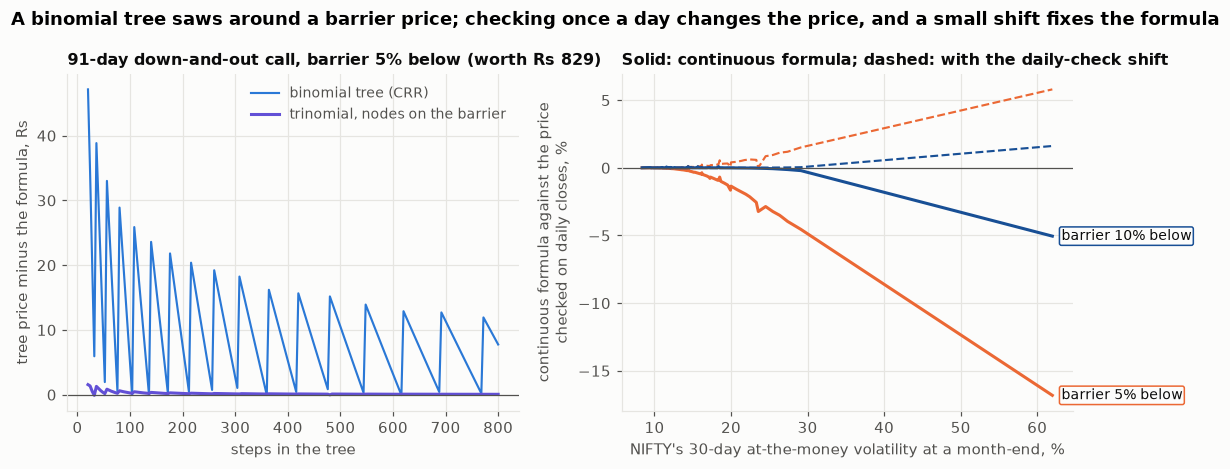
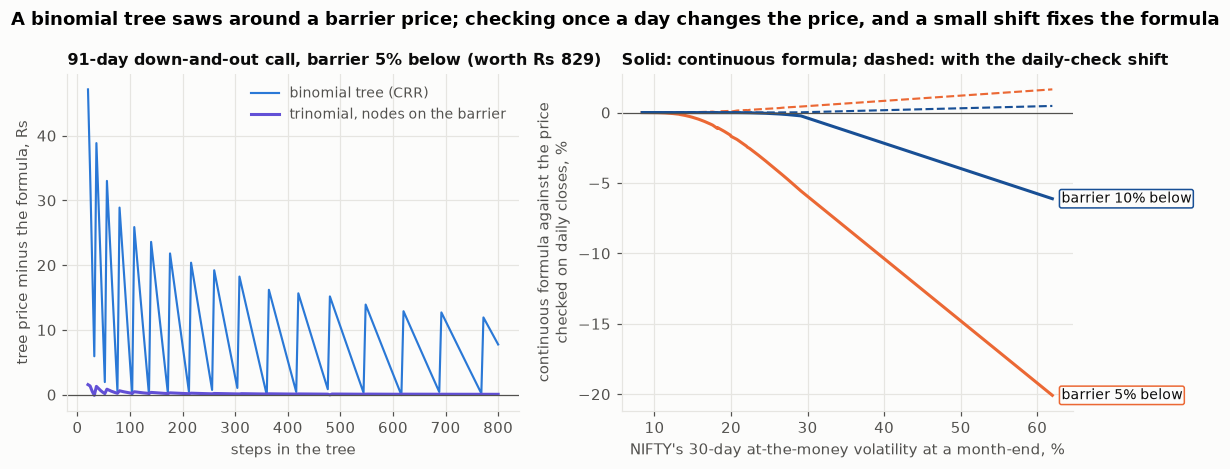
fix: apply the final review: correct the same-shape delta to implied-vol-surface's rule and choose its multiplier on 2015-2020 hedges, finer daily-barrier reference, honest convergence and exercise-boundary wording, measured knock-out odds, and guards

diff --git a/src/btree/reports.py b/src/btree/reports.py
@@ -287,6 +287,11 @@ def report_american(out_dir: Path) -> dict:
         f"{k}: median Rs {gg['prem'].median():.2f} ({(gg['prem'] / gg['eu']).median():.2%})"
         for k, gg in p.groupby(db, observed=True))
 
+    for frac in (0.16, 0.40):  # how deep a one-year call must be before early exercise pays
+        a = ([25000.0], [25000.0 * frac], [1.0], R, NIFTY_YIELD, [0.15])
+        prem = batch.american(*a, 201, "call", "lr")[0] - batch.lr_european(*a, 201, "call")[0]
+        res[f"one-year call struck at {frac:.0%} of NIFTY, 15% vol: early-exercise premium"] = (
+            f"Rs {max(prem, 0):.2f}")
     rates = np.linspace(0, 0.12, 25)
     curves = {}
     for days in (30, 91, 365):
@@ -313,9 +318,10 @@ def report_american(out_dir: Path) -> dict:
               .to_numpy())
         ax.plot(xs, ys, color=col, lw=2)
         plots.label_line_end(ax, xs[0], ys[0], f"volatility {vol:.0%}", col)
-        res[f"exercise boundary, 1-year put, {vol:.0%} vol"] = (
-            f"exercise once NIFTY is below {100 * e[ok][0] / 25000:.1f}% of the strike a year out, "
-            f"{100 * np.interp(30, left[ok][::-1], e[ok][::-1]) / 25000:.1f}% with 30 days left"
+        res[f"exercise boundary, 1-year put, {vol:.0%} vol (41-step smoothed)"] = (
+            f"exercise once NIFTY is below {ys[0]:.1f}% of the strike with about a year left "
+            f"(first exercisable step, {xs[0]:.0f} days left), "
+            f"{np.interp(30, xs[::-1], ys[::-1]):.1f}% with 30 days left"
         )
     ax.invert_xaxis()
     ax.set_xlim(380, -5)
@@ -391,7 +397,7 @@ def report_dividends(out_dir: Path) -> dict:
         gb = g.groupby(pd.cut(g["dy"], bins, labels=labels), observed=True)
         tab[m] = gb.apply(lambda x: pd.Series({
             "n": len(x), "prem": 100 * (x["prem"] / x["eu"]).median(),
-            "err": 100 * (x["err"] / x["am"]).median()}), include_groups=False)
+            "err": 100 * (x["err"] / x["am"]).median()}), include_groups=False).dropna()
         res[f"  {name}, by dividend size: premium / shortcut error (median % )"] = "; ".join(
             f"{k} ({int(r_['n'])}): {r_['prem']:.1f}% / {r_['err']:.1f}%"
             for k, r_ in tab[m].iterrows())
@@ -402,7 +408,7 @@ def report_dividends(out_dir: Path) -> dict:
                            (axes[1], "err", "how much the yield shortcut undervalues it")):
         for j, (m, col, lab) in enumerate(((1.0, plots.COLORS["CRR"], "at the money"),
                                            (0.9, plots.SERIES[1], "10% in the money"))):
-            vals = tab[m][key].reindex(labels).to_numpy()
+            vals = tab[m][key].reindex(labels).fillna(0).to_numpy()  # empty size band: no bar
             ax.bar(xs + (j - 0.5) * 0.38, vals, 0.38, color=col, label=lab)
             for x, y in zip(xs + (j - 0.5) * 0.38, vals, strict=True):
                 ax.text(x, y + 1, f"{y:.0f}%", ha="center", va="bottom", fontsize=8,
@@ -443,10 +449,15 @@ def report_barriers(out_dir: Path) -> dict:
         i = int(np.argmin(np.abs(ns - n)))
         res[f"  {ns[i]} steps"] = f"CRR error Rs {crr[i]:+.2f}, aligned trinomial Rs {tri[i]:+.3f}"
     big = ns >= 400
+    outside = np.flatnonzero(np.abs(tri) > TICK)
+    # first step count after which the error never leaves a tick again (None if it still does)
+    first = outside[-1] + 1 if len(outside) else 0
+    stay = first if first < len(ns) else None
     res["  from 400 to 800 steps"] = (
         f"CRR error ranged Rs {crr[big].min():+.2f} to {crr[big].max():+.2f}; aligned trinomial "
-        f"Rs {tri[big].min():+.3f} to {tri[big].max():+.3f}; trinomial within a tick from "
-        f"{ns[np.argmax(np.abs(tri) <= TICK)]} steps"
+        f"Rs {tri[big].min():+.3f} to {tri[big].max():+.3f}; " + (
+            f"trinomial stays within a tick from {ns[stay]} steps" if stay is not None
+            else "trinomial does not stay within a tick by 800 steps")
     )
 
     svi = pd.read_parquet(iv_dir() / "data" / "derived" / "svi_daily.parquet")
@@ -455,7 +466,7 @@ def report_barriers(out_dir: Path) -> dict:
     ends = pd.Series(dates, index=dates).groupby([dates.year, dates.month]).max()
     m = svi[svi["date"].isin(ends)].assign(gap=lambda x: (x["days"] - 30).abs())
     vols = m.sort_values("gap").groupby("date").head(1)["atm_vol"].to_numpy()
-    T30, checks, per = 30 / 365, 21, 10  # 21 trading-day closes in 30 calendar days
+    T30, checks, per = 30 / 365, 21, 100  # 21 closes in 30 days; 100 steps between checks
     rows = []
     for H_pct in (0.95, 0.90):
         for vol in vols:
@@ -572,8 +583,15 @@ def report_smile_tree(out_dir: Path) -> dict:
 
         lv_ratio = math.sqrt(float(lv(np.array([-0.05]), T / 2)[0])
                              / float(lv(np.array([0.0]), T / 2)[0]))
+        def one(S):
+            return np.ones_like(S)
+
+        # chance of surviving to expiry (never touching the barrier on a daily close), r = 0
+        surv_lv = localvol.tree_price(F, T, 0.0, 21 * per, one, lv, fr, alive, per)
+        surv_flat = localvol.tree_price(F, T, 0.0, 21 * per, one, flat, fr, alive, per)
         rows.append({
             "date": d, "atm": atm, "F": F, "rep": float(np.mean(np.abs(rep))), "lv_ratio": lv_ratio,
+            "ko_lv": 1 - surv_lv, "ko_flat": 1 - surv_flat,
             "truth": truth, "dig_lv": dig_lv, "dig_flat": flat_d, "dig_strike": strike_d,
             "dao_lv": localvol.tree_price(F, T, R, 21 * per, call, lv, fr, alive, per),
             "dao_flat": localvol.tree_price(F, T, R, 21 * per, call, flat, fr, alive, per),
@@ -585,7 +603,7 @@ def report_smile_tree(out_dir: Path) -> dict:
         f"{len(d)} ({d.index.min():%b %Y}-{d.index.max():%b %Y}); 30-day at-the-money volatility "
         f"{d['atm'].min():.1%}-{d['atm'].max():.1%}"
     )
-    res["re-pricing the day's options (k = -8%, -4%, 0, +3%)"] = (
+    res["re-pricing four strikes on the day's 30-day smile (k = -8%, -4%, 0, +3%)"] = (
         f"mean error per month-end median Rs {d['rep'].median():.2f} "
         f"({1e4 * (d['rep'] / d['F']).median():.2f} basis points of the forward), 90th percentile "
         f"Rs {d['rep'].quantile(0.9):.2f}; above Rs 2 in {(d['rep'] > 2).sum()} month-ends"
@@ -608,6 +626,10 @@ def report_smile_tree(out_dir: Path) -> dict:
     res["  local volatility 5% below the forward / at the forward (15 days ahead)"] = (
         f"median {d['lv_ratio'].median():.2f}, above 1 in {(d['lv_ratio'] > 1).mean():.0%} of "
         f"month-ends"
+    )
+    res["  chance of touching the barrier on a daily close: smile tree / flat vol"] = (
+        f"median {d['ko_lv'].median():.1%} / {d['ko_flat'].median():.1%}; smile tree higher in "
+        f"{(d['ko_lv'] > d['ko_flat']).mean():.0%} of month-ends"
     )
 
     fig, axes = plt.subplots(1, 2, figsize=(11, 4.3))
@@ -662,14 +684,26 @@ def report_hedging(out_dir: Path) -> dict:
     import pandas as pd
 
     from btree.data import R, iv_dir
-    from btree.hedge import B_SAME_SHAPE, day_cases
+    from btree.hedge import B_SAME_SHAPE, day_cases, same_shape_delta
 
     res = {}
     svi = pd.read_parquet(iv_dir() / "data" / "derived" / "svi_daily.parquet")
     d = day_cases(svi, R)
     d["big"] = (d["dF"] / d["F0"]).abs() > 0.01
+    # the same-shape multiplier chosen here on 2015-2020 hedging errors, scored on 2021-2026
+    grid = (0.0, 0.5, 1.0, 1.5, 2.0, 2.5, 3.0)
+    train = d["date"].dt.year <= 2020
+    mse = {b: float(((d["dC"] - same_shape_delta(d, b) * d["dF"])[train] ** 2).mean())
+           for b in grid}
+    b_fit = min(mse, key=mse.get)
+    d["same_shape_fit"] = d["dC"] - same_shape_delta(d, b_fit) * d["dF"]
+    res["same-shape multiplier chosen on 2015-2020 hedging errors"] = (
+        f"b = {b_fit:g} (grid {', '.join(f'{b:g}' for b in grid)}; 2015-2020 variance left "
+        + ", ".join(f"{b:g}: {100 * mse[b] / float((d['dC'][train] ** 2).mean()):.1f}%"
+                    for b in grid) + ")")
     meth = {"black": "Black delta", "smile_tree": "smile-tree delta",
-            "same_shape": f"same-shape delta ({B_SAME_SHAPE:g}x)"}
+            "same_shape": f"same-shape, b = {B_SAME_SHAPE:g} (implied-vol-surface's choice)",
+            "same_shape_fit": f"same-shape, b = {b_fit:g} (chosen on 2015-2020 hedges)"}
     res["cases"] = (
         f"{len(d):,} option-days on {d['date'].nunique():,} day pairs "
         f"({d['date'].min():%b %Y}-{d['date'].max():%b %Y}); strikes "
@@ -685,45 +719,43 @@ def report_hedging(out_dir: Path) -> dict:
         res[f"share of the option's daily variance left after hedging, {label} ({len(x):,})"] = (
             "; ".join(f"{meth[c]} {left[label][c]:.1f}%" for c in meth))
     daily = d.groupby("date")[list(meth)].apply(lambda g: (g**2).mean())
-    for c in ("smile_tree", "same_shape"):
+    for c in ("smile_tree", "same_shape", "same_shape_fit"):
         diff = daily[c] - daily["black"]
         res[f"  {meth[c]} against Black (daily mean squared error)"] = (
             f"{100 * diff.mean() / daily['black'].mean():+.1f}% (Newey-West t {_nw_t(diff):.1f}); "
             f"better on {(diff < 0).mean():.0%} of days"
         )
-    diff = daily["same_shape"] - daily["smile_tree"]
-    res["  same-shape against smile tree"] = (
-        f"{100 * diff.mean() / daily['smile_tree'].mean():+.1f}% (t {_nw_t(diff):.1f})")
     test = daily[daily.index.year >= 2021]
-    res["  2021-2026 only (the same-shape multiplier was chosen on 2015-2020)"] = "; ".join(
+    res["  2021-2026 only (out of sample for both multipliers)"] = "; ".join(
         f"{meth[a]} against {meth[b]}: {100 * (test[a] - test[b]).mean() / test[b].mean():+.1f}% "
         f"(t {_nw_t(test[a] - test[b]):.1f})"
-        for a, b in (("same_shape", "black"), ("smile_tree", "black"),
-                     ("same_shape", "smile_tree")))
+        for a, b in (("same_shape", "black"), ("same_shape_fit", "black"),
+                     ("smile_tree", "black"), ("same_shape_fit", "smile_tree")))
     bys = d.groupby("k")
-    res["by strike: variance left (Black / smile tree / same shape)"] = "; ".join(
+    res["by strike: variance left (Black / smile tree / same shape b = 1 / fitted b)"] = "; ".join(
         f"{k:+.0%}: " + " / ".join(f"{100 * (g[c] ** 2).mean() / (g['unhedged'] ** 2).mean():.1f}%"
                                    for c in meth) for k, g in bys)
-    res["average delta by strike (Black / smile tree / same shape)"] = "; ".join(
-        f"{k:+.0%}: {g['d_bs'].mean():.3f} / {g['d_lv'].mean():.3f} / {g['d_ss'].mean():.3f}"
-        for k, g in bys)
+    res["average delta by strike (Black / smile tree / same shape b = 1 / fitted b)"] = "; ".join(
+        f"{k:+.0%}: {g['d_bs'].mean():.3f} / {g['d_lv'].mean():.3f} / {g['d_ss'].mean():.3f} / "
+        f"{same_shape_delta(g, b_fit).mean():.3f}" for k, g in bys)
 
-    fig, ax = plt.subplots(figsize=(10, 4.7))
+    fig, ax = plt.subplots(figsize=(10, 5.0))
     groups = ["all days", "2015-2020", "2021-2026", "moves over 1%"]
     xs = np.arange(len(groups))
     cols = {"black": plots.MUTED, "smile_tree": plots.COLORS["Leisen-Reimer"],
-            "same_shape": plots.SERIES[1]}
+            "same_shape": plots.SERIES[3], "same_shape_fit": plots.SERIES[1]}
+    wd = 0.2
     for j, c in enumerate(meth):
         vals = [left[g][c] for g in groups]
-        ax.bar(xs + (j - 1) * 0.26, vals, 0.26, color=cols[c], label=meth[c])
-        for x, y in zip(xs + (j - 1) * 0.26, vals, strict=True):
+        ax.bar(xs + (j - 1.5) * wd, vals, wd, color=cols[c], label=meth[c])
+        for x, y in zip(xs + (j - 1.5) * wd, vals, strict=True):
             ax.text(x, y + 0.2, f"{y:.1f}", ha="center", va="bottom", fontsize=8.5,
                     color=plots.TEXT)
     ax.set_xticks(xs, groups)
     ax.set_ylabel("option's daily price variance\nleft after hedging, %")
-    ax.legend(fontsize=9, loc="upper center", bbox_to_anchor=(0.5, -0.1), ncol=3)
-    ax.set_title("The smile tree's delta was no better than Black's; keeping the smile's shape "
-                 "left the least risk", fontsize=12)
+    ax.legend(fontsize=8.5, loc="upper center", bbox_to_anchor=(0.5, -0.1), ncol=2)
+    ax.set_title("No delta beat Black's reliably out of sample; the smile tree's did worst there",
+                 fontsize=12)
     fig.tight_layout()
     plots.save(fig, out_dir, "hedging")
     plt.close(fig)

diff --git a/src/btree/hedge.py b/src/btree/hedge.py
@@ -6,11 +6,13 @@ above). The "market" price is Black-76 at the slice's SVI volatility at the stri
 same strike and expiry are re-priced from tomorrow's slice. The hedge holds delta units of the
 expiry's forward (futures), so the hedging error is dC - delta dF. Deltas:
 - Black: Black-76 delta at the strike's own volatility (vols stay with the strike);
-- smile tree: re-price the local-volatility tree of `iv.localvol` with the forward moved +-0.5%,
+- smile tree: re-price the local-volatility tree of `btree.localvol` with the forward moved +-0.5%,
   local volatility held fixed as a function of the price level;
-- same shape: Black delta + vega x B x S / F, with S the slice's at-the-money slope d(vol)/dk and B
-  the multiplier chosen on 2015-2020 in implied-vol-surface finding 4 (1.0): the smile keeps its
-  shape against the forward and its level moves by B x S x (dF / F).
+- same shape (implied-vol-surface finding 4's rule): tomorrow's vol at log-moneyness k is today's
+  at k plus b x S x (dF / F), S the at-the-money slope d(vol)/dk. A fixed strike's k moves by
+  -dF/F, so its vol changes by (b S - sigma'(k)) dF/F, and the delta is Black's plus
+  vega x (b S - sigma'(k)) / F, sigma'(k) the smile's slope at the strike. b = 1 is that repo's
+  choice on 2015-2020; `same_shape_delta` gives any b from the stored pieces.
 """
 
 import math
@@ -43,6 +45,19 @@ def _vol(p, F, K, T):
     a, b, rho, m, s = (p[x] for x in localvol.PARAMS)
     w = a + b * (rho * (k - m) + math.sqrt((k - m) ** 2 + s * s))
     return math.sqrt(max(w, 1e-12) / T)
+
+
+def _dvol_dk(p, k, T):
+    """Slope of the SVI smile, d(vol)/dk, at log-moneyness k."""
+    a, b, rho, m, s = (p[x] for x in localvol.PARAMS)
+    root = math.sqrt((k - m) ** 2 + s * s)
+    w = a + b * (rho * (k - m) + root)
+    return b * (rho + (k - m) / root) / (2 * math.sqrt(max(w, 1e-12) * T))
+
+
+def same_shape_delta(d, b):
+    """Same-shape delta for multiplier b from a `day_cases` table."""
+    return d["d_bs"] + d["vega"] * (b * d["S"] - d["sk"]) / d["F0"]
 
 
 def _slope(p, T):
@@ -91,9 +106,11 @@ def day_cases(svi: pd.DataFrame, r: float, steps_per_day: int = 42, every: int =
                                                                  cap=cap))
                 for h in (H, -H))
             d_lv = (up - dn) / (2 * H * F0)
-            d_ss = d_bs + vega * B_SAME_SHAPE * S / F0
+            sk = _dvol_dk(p0, k, T0)
+            d_ss = d_bs + vega * (B_SAME_SHAPE * S - sk) / F0
             dC, dF = c1 - c0, F1 - F0
             rows.append({"date": t1, "k": k, "dC": dC, "dF": dF, "F0": F0, "unhedged": dC,
                          "black": dC - d_bs * dF, "smile_tree": dC - d_lv * dF,
-                         "same_shape": dC - d_ss * dF, "d_bs": d_bs, "d_lv": d_lv, "d_ss": d_ss})
+                         "same_shape": dC - d_ss * dF, "d_bs": d_bs, "d_lv": d_lv, "d_ss": d_ss,
+                         "vega": vega, "S": S, "sk": sk})
     return pd.DataFrame(rows)

diff --git a/tests/test_hedge.py b/tests/test_hedge.py
@@ -31,3 +31,25 @@ def test_on_a_flat_smile_all_three_deltas_agree():
     assert len(out) == len(hedge.KS)
     assert np.allclose(out["d_ss"], out["d_bs"])
     assert np.allclose(out["d_lv"], out["d_bs"], atol=2e-3)
+
+
+def test_same_shape_delta_matches_a_finite_difference_of_the_rule_on_a_skewed_smile():
+    # rule: tomorrow's vol at log-moneyness k = today's at k + b S (dF/F), S the ATM slope
+    p = {"a": 0.001, "b": 0.02, "rho": -0.7, "m": 0.01, "sigma": 0.05}
+    F, T, r, b = 100.0, 0.08, 0.065, 1.0
+    S = hedge._slope(p, T)
+    for k in (-0.05, 0.0, 0.03):
+        K = F * math.exp(k)
+        kind = "put" if k < 0 else "call"
+        _, d_bs, vega = hedge.black(F, K, T, r, hedge._vol(p, F, K, T), kind)
+        row = pd.DataFrame({"d_bs": [d_bs], "vega": [vega], "S": [S],
+                            "sk": [hedge._dvol_dk(p, k, T)], "F0": [F]})
+        got = float(hedge.same_shape_delta(row, b).iloc[0])
+
+        def price(Fx, K=K, kind=kind):
+            vol = hedge._vol(p, Fx, K, T) + b * S * math.log(Fx / F)
+            return hedge.black(Fx, K, T, r, vol, kind)[0]
+
+        h = 1e-3
+        fd = (price(F + h) - price(F - h)) / (2 * h)
+        assert abs(got - fd) < 2e-4

diff --git a/src/btree/localvol.py b/src/btree/localvol.py
@@ -95,8 +95,9 @@ def tree_price(F_T, T, r, n, payoff, local_var, forward_ratio=None, alive=None,
 
 
 def smoothed_digital(K, amount=100.0):
-    """Cash-or-nothing call payoff averaged over each node's grid cell (in log price), so a
-    strike between two nodes doesn't make the price jump with the grid."""
+    """Cash-or-nothing call payoff averaged over each node's grid cell (cell edges at the
+    log-price midpoints between nodes, the covered share measured in price), so a strike between
+    two nodes doesn't make the price jump with the grid."""
     def pay(S):
         lo = np.sqrt(S * np.r_[S[0] ** 2 / S[1], S[:-1]])
         hi = np.sqrt(S * np.r_[S[1:], S[-1] ** 2 / S[-2]])

diff --git a/src/btree/dividends.py b/src/btree/dividends.py
@@ -118,6 +118,7 @@ def events(data: dict[str, pd.DataFrame], before: int = 30, after: int = 10,
             rows.append({"symbol": sym, "ex_date": ex, "start": t0, "S": float(c.loc[t0]),
                          "dividend": float(amt), "vol": float(past.std() * np.sqrt(252)),
                          "T": T, "divs": divs})
-    out = pd.DataFrame(rows)
+    cols = ["symbol", "ex_date", "start", "S", "dividend", "vol", "T", "divs"]
+    out = pd.DataFrame(rows, columns=cols)
     out["div_yield"] = out["dividend"] / out["S"]
     return out
